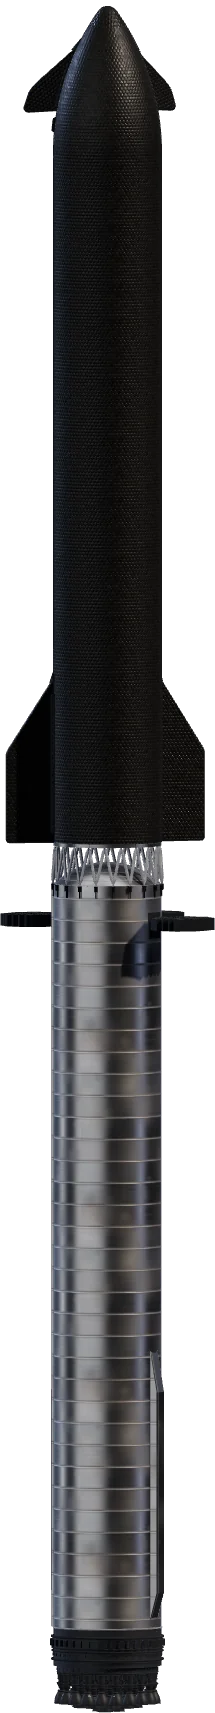
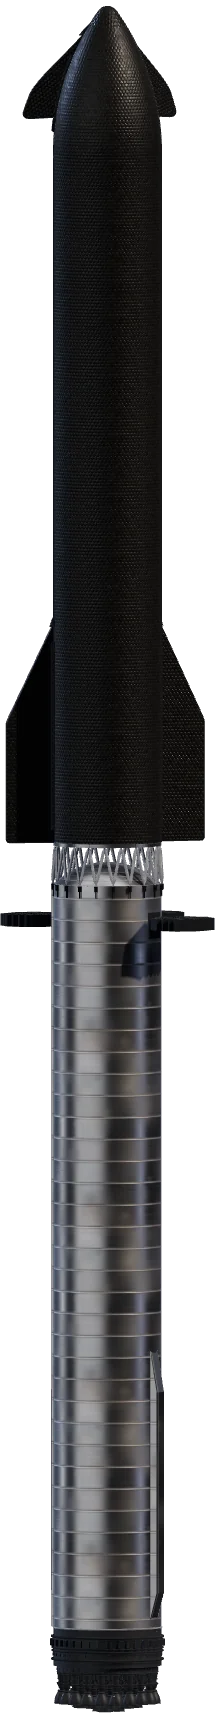
Starship V4: the flaps longer in step with the ship (70 / 52.1)

diff --git a/evolution/vehicles.js b/evolution/vehicles.js
@@ -427,6 +427,12 @@ async function starshipModel(renderer, version) {
     const swap = (a, b) => { if (code.split(a).length !== 2) throw new Error('starship-3d.html changed: ' + a); code = code.replace(a, b); };
     swap('for (let i = 0; i < 3; i++) { const a = (i + 0.5) / 3 * TAU; sEngPos.push({ vac: true', 'for (let i = 0; i < 6; i++) { const a = (i + 0.5) / 6 * TAU; sEngPos.push({ vac: true');
     swap('if (sh > 0 && SHIP_NAMES[sh]) decal(', 'if (NO_SERIAL) {} else if (sh > 0 && SHIP_NAMES[sh]) decal(');
+    // the flaps longer in step with the ship (70 / 52.1): the aft ones up the hull from the same base, the forward ones
+    // up the nose from just above the tiled boxes beside the logo (their bottom edge stays square to the ship's axis)
+    const K = (70 / 52.1).toFixed(4), FFB = 3.0;
+    for (const side of ["FA1", "FA2"]) swap(`flap(sAft, ${side}, S0 + 0.1, 13.6, 7.4, 3.9,`, `flap(sAft, ${side}, S0 + 0.1, 13.6 * ${K}, 7.4 * ${K}, 3.9,`);
+    swap('const FF_Y = NOSE0 + 3.55, FF_TILT = Math.atan((noseR(3.55) - noseR(9.15)) / 5.6);', `const FF_Y = NOSE0 + ${FFB}, FF_TILT = Math.atan((noseR(${FFB}) - noseR(${FFB} + 5.6 * ${K})) / (5.6 * ${K}));`);
+    for (const side of ["FA1 + 0.3", "FA2 - 0.3"]) swap(`flap(sNose, ${side}, FF_Y, 5.6, 1.9, 2.6, FF_DROP, noseR(3.55) + 0.02,`, `flap(sNose, ${side}, FF_Y, 5.6 * ${K}, 1.9 * ${K}, 2.6, FF_DROP, noseR(${FFB}) + 0.02,`);
   }
   const run = new Function('THREE', 'mergeGeometries', 'renderer', 'scene', 'isMobile', 'maxAniso', 'location', 'NO_SERIAL',
     code + '\nreturn { groups, parts, fluids, engines, deployer, R };');
